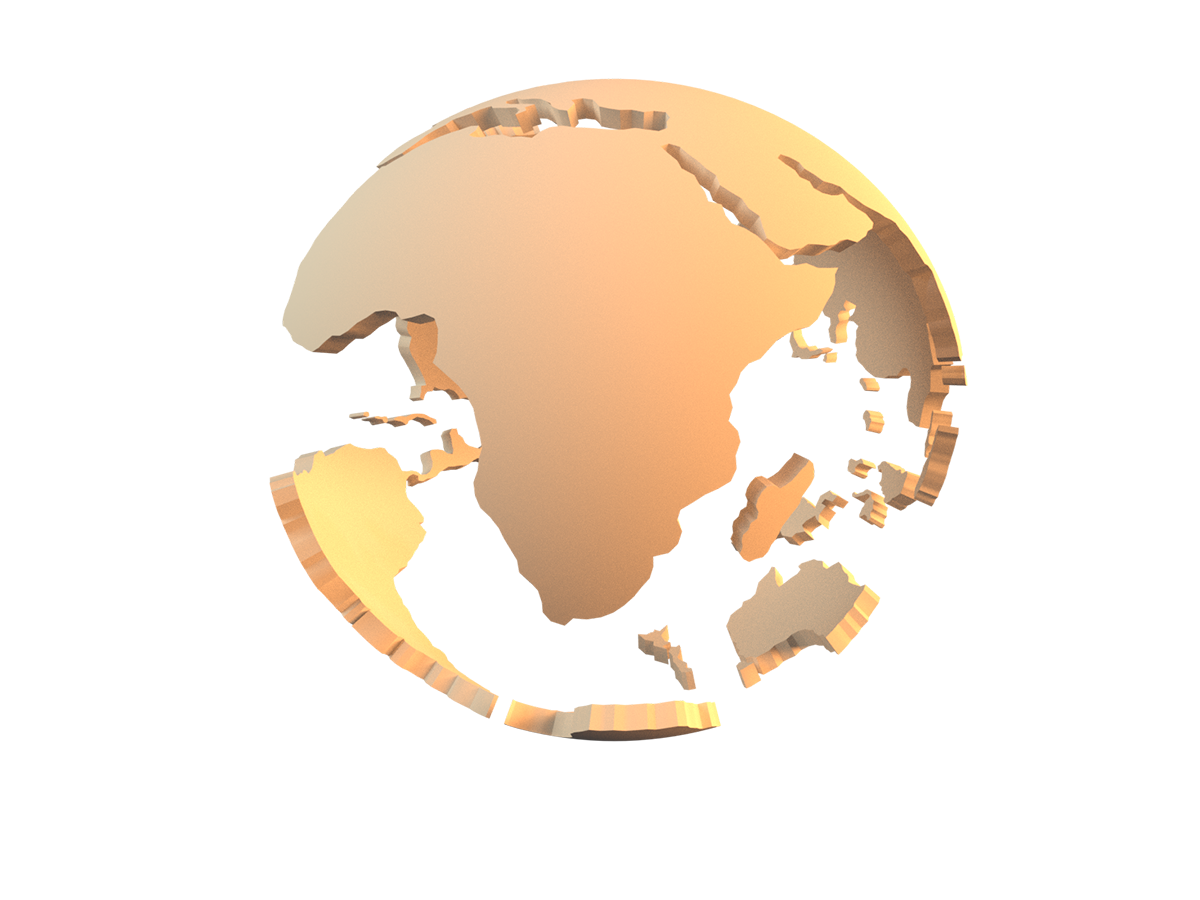
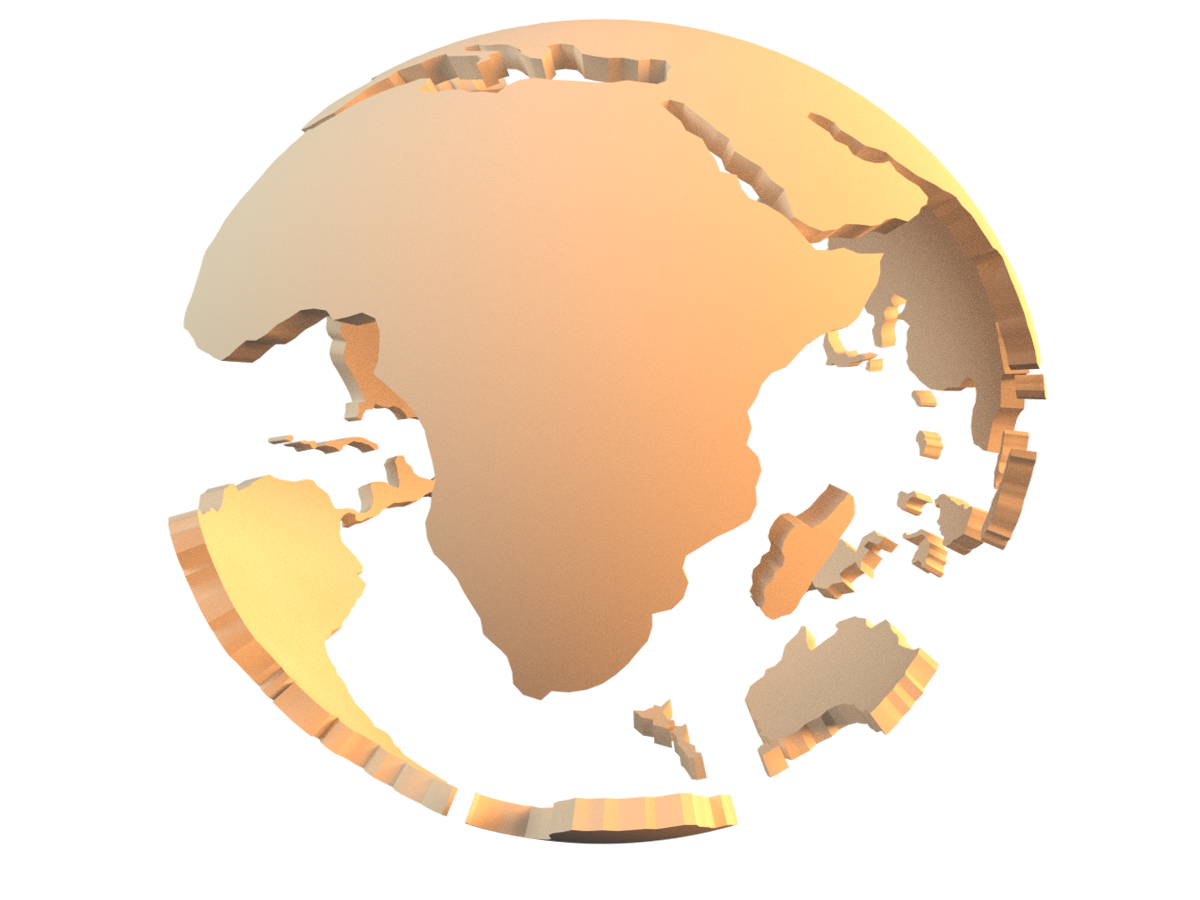
edit

Changed region(s): [[0.1233, 0.0, 0.8942, 0.9644]]

diff --git a/layouts/partials/hero.html b/layouts/partials/hero.html
@@ -1,4 +1,4 @@
-	<section id="fh5co-home" data-section="home" style="background-image: url(images/orangeworld2.png);" data-stellar-background-ratio="0.5">
+	<section id="fh5co-home" data-section="home" style="background-image: url(images/orangeworld.png);" data-stellar-background-ratio="0.5">
 		<div class="container">
 			<div class="text-wrap">
 				<div class="text-inner">
